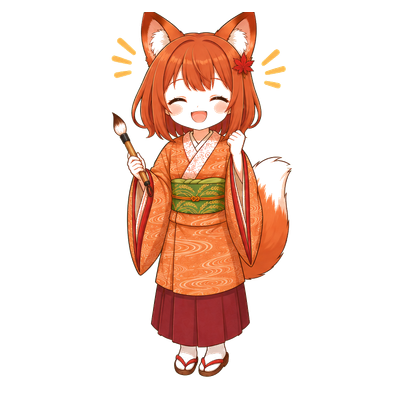
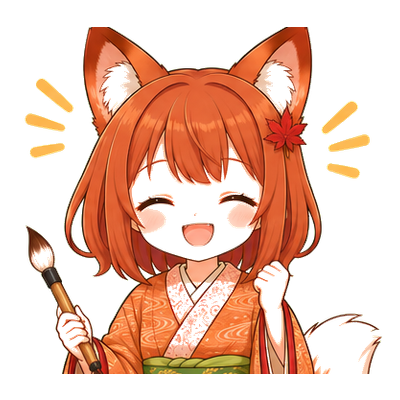
Rework mini-game layout: bigger bust-crop mascot, answer feedback bottom row
Move the mascot out of the header (next to Back to hub) and into a
dedicated bottom row shared with the answer feedback text — feedback
on the left, a larger (64px -> 96px) mascot reaction on the right, so
the expression actually reads. Re-crop the mascot art to bust/upper-
body only instead of full-body, which is what makes the larger size
worthwhile.

diff --git a/src/routes/games/ListeningPage.tsx b/src/routes/games/ListeningPage.tsx
@@ -145,10 +145,7 @@ export function ListeningPage() {
 
   return (
     <div className="flex flex-col items-center gap-6">
-      <div className="flex w-full items-center justify-between">
-        <BackToHubLink rowId={rowId} />
-        <Mascot mood={mood} />
-      </div>
+      <BackToHubLink rowId={rowId} />
       <p className="text-sm text-neutral-500 dark:text-neutral-400">
         Round {roundIndex + 1} / {queue.length}
       </p>
@@ -192,11 +189,12 @@ export function ListeningPage() {
         })}
       </div>
 
-      {feedback && (
-        <p className={`font-semibold ${feedback.ok ? 'text-red-500' : 'text-blue-500'}`}>
-          {feedback.ok ? '○' : '✕'} {feedback.text}
+      <div className="flex w-full items-center justify-between">
+        <p className={`font-semibold ${feedback ? (feedback.ok ? 'text-red-500' : 'text-blue-500') : ''}`}>
+          {feedback && `${feedback.ok ? '○' : '✕'} ${feedback.text}`}
         </p>
-      )}
+        <Mascot mood={mood} />
+      </div>
 
       {answered && selectedId !== currentWord.id && (
         <button

diff --git a/src/routes/games/KanaQuizPage.tsx b/src/routes/games/KanaQuizPage.tsx
@@ -138,10 +138,7 @@ export function KanaQuizPage() {
 
   return (
     <div className="flex flex-col items-center gap-6">
-      <div className="flex w-full items-center justify-between">
-        <BackToHubLink rowId={rowId} />
-        <Mascot mood={mood} />
-      </div>
+      <BackToHubLink rowId={rowId} />
       <p className="text-sm text-neutral-500 dark:text-neutral-400">
         Round {roundIndex + 1} / {queue.length}
       </p>
@@ -185,11 +182,12 @@ export function KanaQuizPage() {
         })}
       </div>
 
-      {feedback && (
-        <p className={`font-semibold ${feedback.ok ? 'text-red-500' : 'text-blue-500'}`}>
-          {feedback.ok ? '○' : '✕'} {feedback.text}
+      <div className="flex w-full items-center justify-between">
+        <p className={`font-semibold ${feedback ? (feedback.ok ? 'text-red-500' : 'text-blue-500') : ''}`}>
+          {feedback && `${feedback.ok ? '○' : '✕'} ${feedback.text}`}
         </p>
-      )}
+        <Mascot mood={mood} />
+      </div>
 
       {answered && selectedId !== currentCharId && (
         <button

diff --git a/src/routes/games/KanaTypingPage.tsx b/src/routes/games/KanaTypingPage.tsx
@@ -145,10 +145,7 @@ export function KanaTypingPage() {
 
   return (
     <div className="flex flex-col items-center gap-6">
-      <div className="flex w-full items-center justify-between">
-        <BackToHubLink rowId={rowId} />
-        <Mascot mood={mood} />
-      </div>
+      <BackToHubLink rowId={rowId} />
       <p className="text-sm text-neutral-500 dark:text-neutral-400">
         Round {roundIndex + 1} / {queue.length}
       </p>
@@ -211,11 +208,12 @@ export function KanaTypingPage() {
         )}
       </form>
 
-      {feedback && (
-        <p className={`font-semibold ${feedback.ok ? 'text-red-500' : 'text-blue-500'}`}>
-          {feedback.ok ? '○' : '✕'} {feedback.text}
+      <div className="flex w-full items-center justify-between">
+        <p className={`font-semibold ${feedback ? (feedback.ok ? 'text-red-500' : 'text-blue-500') : ''}`}>
+          {feedback && `${feedback.ok ? '○' : '✕'} ${feedback.text}`}
         </p>
-      )}
+        <Mascot mood={mood} />
+      </div>
 
       {answered && !wasCorrect && (
         <>

diff --git a/src/routes/games/WordBuilderPage.tsx b/src/routes/games/WordBuilderPage.tsx
@@ -200,10 +200,7 @@ export function WordBuilderPage() {
 
   return (
     <div className="flex flex-col items-center gap-6">
-      <div className="flex w-full items-center justify-between">
-        <BackToHubLink rowId={rowId} />
-        <Mascot mood={mood} />
-      </div>
+      <BackToHubLink rowId={rowId} />
       <p className="text-sm text-neutral-500 dark:text-neutral-400">
         Round {roundIndex + 1} / {queue.length}
       </p>
@@ -239,11 +236,12 @@ export function WordBuilderPage() {
         })}
       </div>
 
-      {feedback && (
-        <p className={`font-semibold ${feedback.ok ? 'text-red-500' : 'text-blue-500'}`}>
-          {feedback.ok ? '○' : '✕'} {feedback.text}
+      <div className="flex w-full items-center justify-between">
+        <p className={`font-semibold ${feedback ? (feedback.ok ? 'text-red-500' : 'text-blue-500') : ''}`}>
+          {feedback && `${feedback.ok ? '○' : '✕'} ${feedback.text}`}
         </p>
-      )}
+        <Mascot mood={mood} />
+      </div>
 
       {status === 'wrong' && (
         <>

diff --git a/src/components/Mascot.tsx b/src/components/Mascot.tsx
@@ -11,9 +11,11 @@ const MOOD_IMAGE: Record<MascotMood, string> = {
   streak: 'mascot/streak.png',
 }
 
-// Tamamizu, the app's fox-spirit mascot — sits beside the question in the
-// graded mini-games and reacts to how the round went (see useAnswerFeedback,
-// which derives `mood` from the answer feedback + consecutive-correct streak).
+// Tamamizu, the app's fox-spirit mascot — sits in the bottom-right of the
+// graded mini-games' answer area and reacts to how the round went (see
+// useAnswerFeedback, which derives `mood` from the answer feedback +
+// consecutive-correct streak). Art is a bust/upper-body crop so the
+// expression reads clearly at this size.
 export function Mascot({ mood }: Props) {
-  return <img src={`${import.meta.env.BASE_URL}${MOOD_IMAGE[mood]}`} alt="" className="h-16 w-16 shrink-0" />
+  return <img src={`${import.meta.env.BASE_URL}${MOOD_IMAGE[mood]}`} alt="" className="h-24 w-24 shrink-0" />
 }
